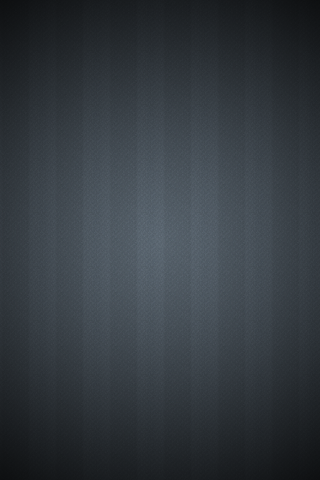
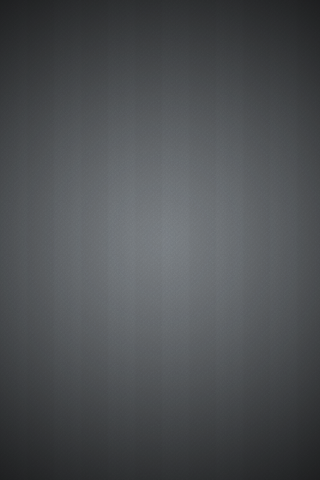
Cleaned up Main View Controller. Freshened the background, added a touch of leather. Premium, pre-worn leather bitches.

diff --git a/Classes/BFMainViewController.m b/Classes/BFMainViewController.m
@@ -174,7 +174,7 @@
     [UIView setAnimationDuration:0.3f];
     [UIView setAnimationCurve:UIViewAnimationCurveEaseInOut];    
     CGSize size = menuView.frame.size;
-    menuView.frame = CGRectMake(0.0f, 280.0f, size.width, size.height);
+    menuView.frame = CGRectMake(0.0f, 290.0f, size.width, size.height);
     
     [UIView commitAnimations];
 }

diff --git a/Classes/BriefsAppDelegate.h b/Classes/BriefsAppDelegate.h
@@ -16,8 +16,5 @@
 @property (nonatomic, retain) IBOutlet UIWindow *window;
 
 
-- (void)navigationController:(UINavigationController *)nav willShowViewController:(UIViewController *)view animated:(BOOL)animated;
-- (void)navigationController:(UINavigationController *)nav didShowViewController:(UIViewController *)view animated:(BOOL)animated;
-
 @end
 

diff --git a/Classes/BFBrowseBriefcastsViewController.m b/Classes/BFBrowseBriefcastsViewController.m
@@ -63,6 +63,10 @@
         [allControllers addObject:controller];
     }
     
+    // show footer if there are no briefcasts listed
+//    if ([knownBriefcasts count] <= 0)
+//        tableFooterView.alpha = 1.0f;
+    
     self.tableGroups = [NSArray arrayWithObjects:allControllers, nil];
 }
 
